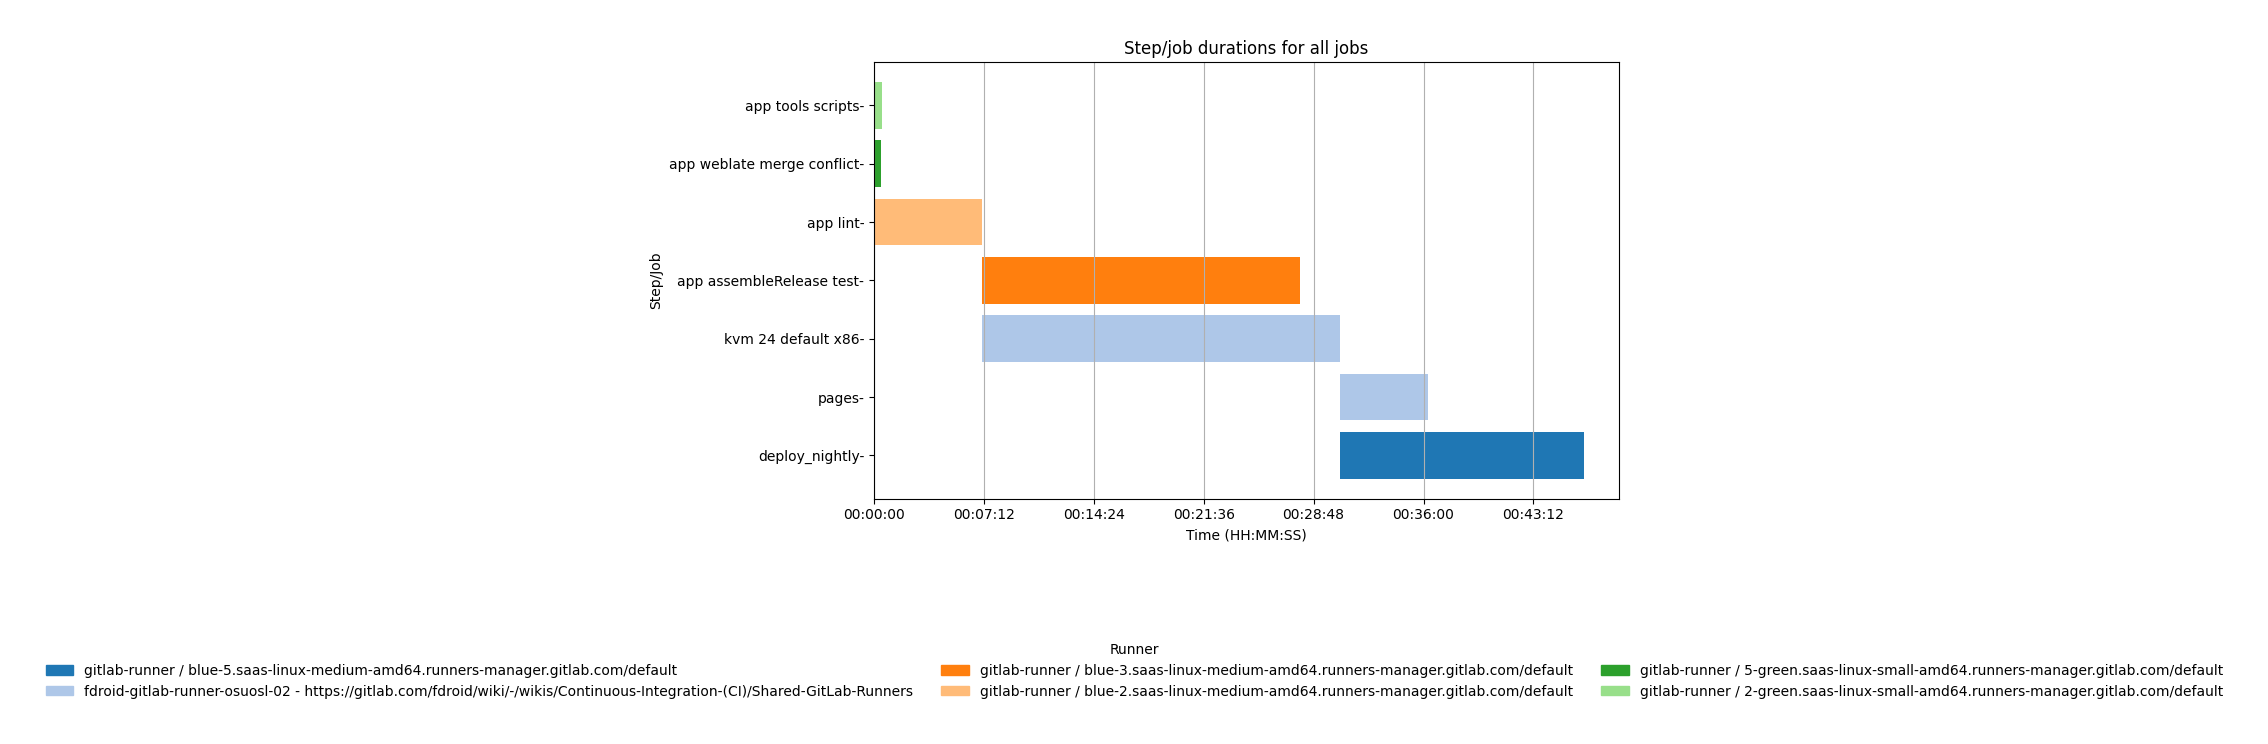
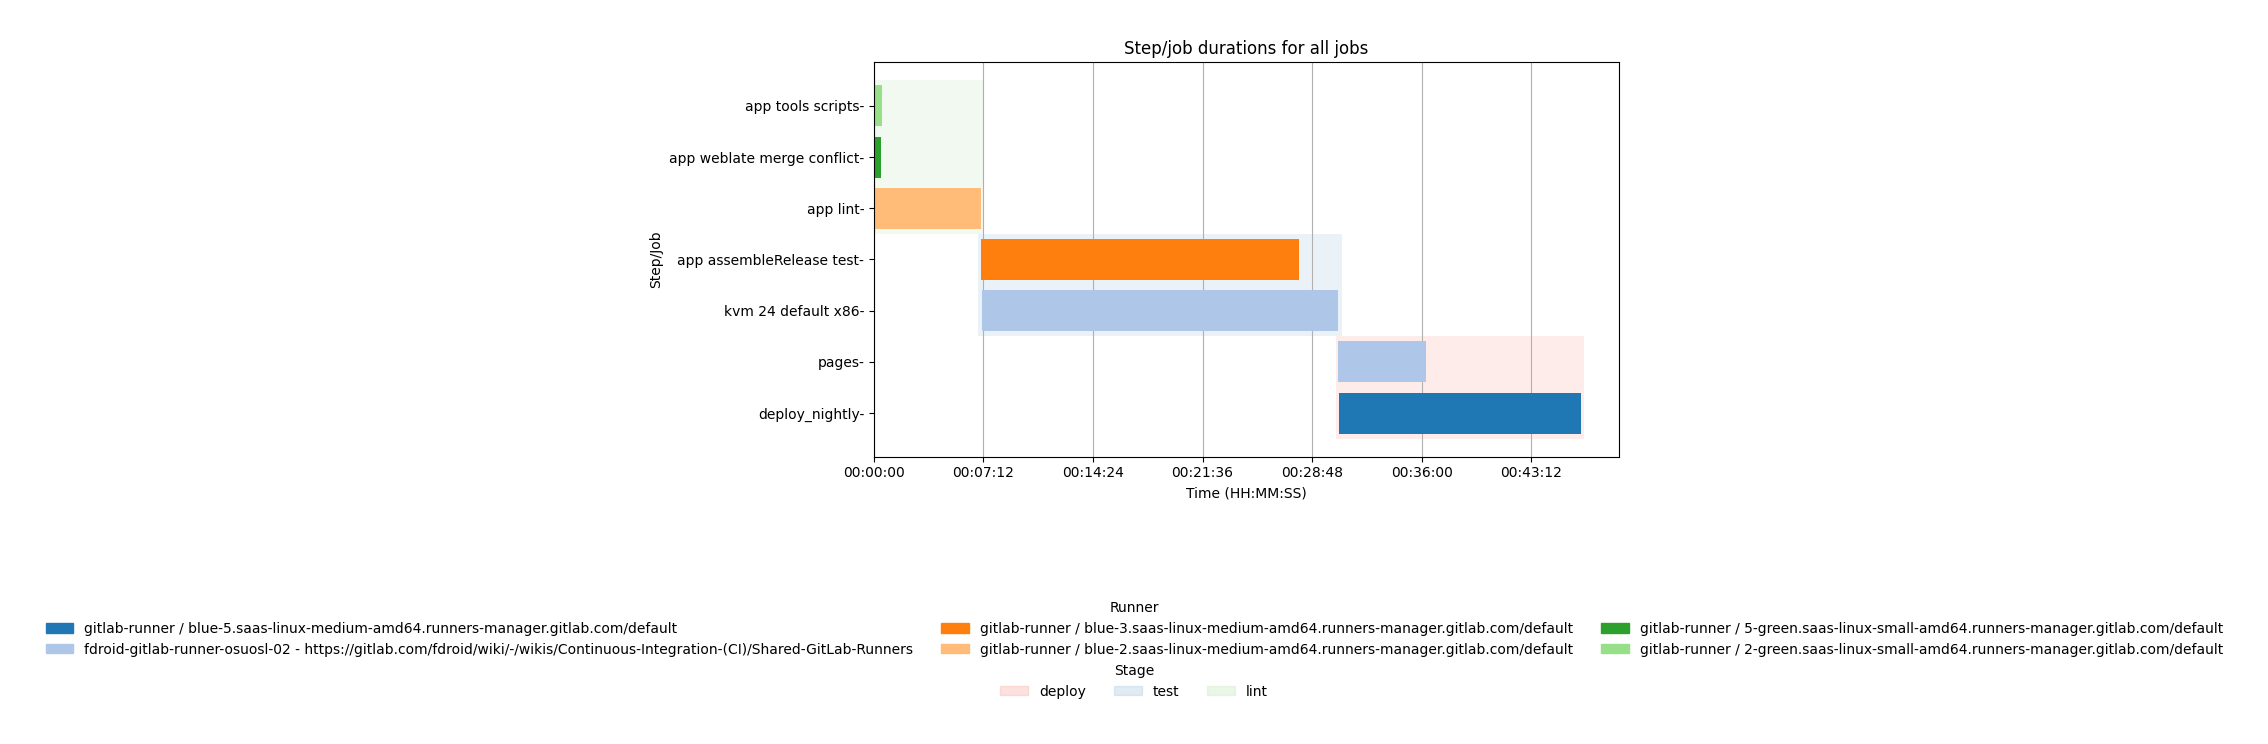
feat(simulation): Highlight stages of the jobs.

diff --git a/experiments/commons.py b/experiments/commons.py
@@ -63,12 +63,20 @@ def get_fresh_experiment_number(platform='github') -> int:
 
 
 class JobDuration:
-    def __init__(self, label: str, start: datetime, end: datetime, runner: str | None = None):
+    def __init__(
+        self,
+        label: str,
+        start: datetime,
+        end: datetime,
+        runner: str | None = None,
+        stage: str | None = None,
+    ):
         self.label = label
         self.start = start
         self.end = end
         self.duration = end - start
         self.runner = runner
+        self.stage = stage
 
 
 def plot_job_gantt(jobs, title, file_path=None, sort=True, limit=False):
@@ -111,6 +119,67 @@ def plot_job_gantt(jobs, title, file_path=None, sort=True, limit=False):
             for runner in unique_runners
         ]
 
+    stage_handles = None
+    stage_names = [s.stage for s in steps_sorted if getattr(s, "stage", None)]
+    stage_colors = {}
+    if stage_names:
+        unique_stages = list(dict.fromkeys(stage_names))
+        stage_cmap = plt.get_cmap('Pastel1')
+        stage_colors = {stage: stage_cmap(i % stage_cmap.N) for i, stage in enumerate(unique_stages)}
+        stage_handles = [
+            matplotlib.patches.Patch(color=stage_colors[stage], label=stage, alpha=0.4)
+            for stage in unique_stages
+        ]
+
+        stage_indices = {stage: [] for stage in unique_stages}
+        stage_time_ranges = {stage: [] for stage in unique_stages}
+        for index, step in enumerate(steps_sorted):
+            if step.stage in stage_indices:
+                stage_indices[step.stage].append(index)
+                start_offset = start_offsets_days[index]
+                end_offset = start_offsets_days[index] + durations_days[index]
+                stage_time_ranges[step.stage].append((start_offset, end_offset))
+
+        for stage, indices in stage_indices.items():
+            if not indices:
+                continue
+            stage_times = stage_time_ranges.get(stage, [])
+            if not stage_times:
+                continue
+            stage_start = min(start for start, _ in stage_times)
+            stage_end = max(end for _, end in stage_times)
+            stage_span = max(stage_end - stage_start, 1 / 86400)
+            margin_days = max(stage_span * 0.01, 1 / 86400)
+            stage_left = max(stage_start - margin_days, 0)
+            stage_width = (stage_end - stage_start) + (2 * margin_days)
+
+            sorted_indices = sorted(indices)
+            runs = []
+            run_start = sorted_indices[0]
+            run_end = sorted_indices[0]
+            for idx in sorted_indices[1:]:
+                if idx == run_end + 1:
+                    run_end = idx
+                else:
+                    runs.append((run_start, run_end))
+                    run_start = idx
+                    run_end = idx
+            runs.append((run_start, run_end))
+
+            for run_start, run_end in runs:
+                run_length = run_end - run_start + 1
+                run_center = (run_start + run_end) / 2
+                ax.barh(
+                    run_center,
+                    stage_width,
+                    left=stage_left,
+                    height=run_length,
+                    align='center',
+                    color=stage_colors.get(stage, '#dddddd'),
+                    alpha=0.25,
+                    zorder=0,
+                )
+
     # Draw bars
     ax.barh(
         yticks,
@@ -118,7 +187,8 @@ def plot_job_gantt(jobs, title, file_path=None, sort=True, limit=False):
         left=start_offsets_days,
         height=0.8,
         align='center',
-        color=colors
+        color=colors,
+        zorder=2,
     )
 
     ax.set_yticks(yticks)
@@ -160,17 +230,33 @@ def plot_job_gantt(jobs, title, file_path=None, sort=True, limit=False):
     ax.grid(axis="x")
 
     legend_rows = 0
+    legend_y = 0.02
+    if stage_handles:
+        stage_columns = min(len(stage_handles), 3)
+        stage_rows = (len(stage_handles) + stage_columns - 1) // stage_columns
+        fig.legend(
+            handles=stage_handles,
+            title="Stage",
+            loc="lower center",
+            bbox_to_anchor=(0.5, legend_y),
+            ncol=stage_columns,
+            frameon=False
+        )
+        legend_rows += stage_rows
+        legend_y += 0.06 * stage_rows
+
     if legend_handles:
         legend_columns = min(len(legend_handles), 3)
-        legend_rows = (len(legend_handles) + legend_columns - 1) // legend_columns
+        runner_rows = (len(legend_handles) + legend_columns - 1) // legend_columns
         fig.legend(
             handles=legend_handles,
             title="Runner",
             loc="lower center",
-            bbox_to_anchor=(0.5, 0.02),
+            bbox_to_anchor=(0.5, legend_y),
             ncol=legend_columns,
             frameon=False
         )
+        legend_rows += runner_rows
 
     legend_padding = 0.12 + (0.06 * legend_rows)
     plt.tight_layout(rect=(0, legend_padding, 1, 1))

diff --git a/experiments/simulation/workflow_scheduling/simulation_gantt_charts.py b/experiments/simulation/workflow_scheduling/simulation_gantt_charts.py
@@ -26,14 +26,37 @@ def main():
             pipeline_id = pipeline['id']
             durations = []
             jobs = pipeline['jobs']
+            stages = pipeline.get('stages', [])
+            job_stage_map = {}
+            for stage in stages:
+                stage_name = stage.get('name')
+                for job_id in stage.get('jobs', []):
+                    job_stage_map[job_id] = stage_name
 
             for job in jobs:
                 print('Getting job information for job', job['id'])
                 started = datetime.fromisoformat(job.get('started_at').replace("Z", "+00:00"))
                 finished = datetime.fromisoformat(job.get('finished_at').replace("Z", "+00:00"))
                 runner = job.get('runner')
-                durations.append(JobDuration(job.get('id').replace(pipeline_id, ''), started, finished, runner=runner))
-                all_jobs.append(JobDuration(job.get('id').replace(pipeline_id, ''), started, finished, runner=runner))
+                stage_name = job_stage_map.get(job.get('id'))
+                durations.append(
+                    JobDuration(
+                        job.get('id').replace(pipeline_id, ''),
+                        started,
+                        finished,
+                        runner=runner,
+                        stage=stage_name,
+                    )
+                )
+                all_jobs.append(
+                    JobDuration(
+                        job.get('id').replace(pipeline_id, ''),
+                        started,
+                        finished,
+                        runner=runner,
+                        stage=stage_name,
+                    )
+                )
             #plot_job_gantt(durations,f"Step/job durations for run {run_id}", directory / f"gantt_run{run_id}", sort=False)
         if not all_jobs:
             continue
